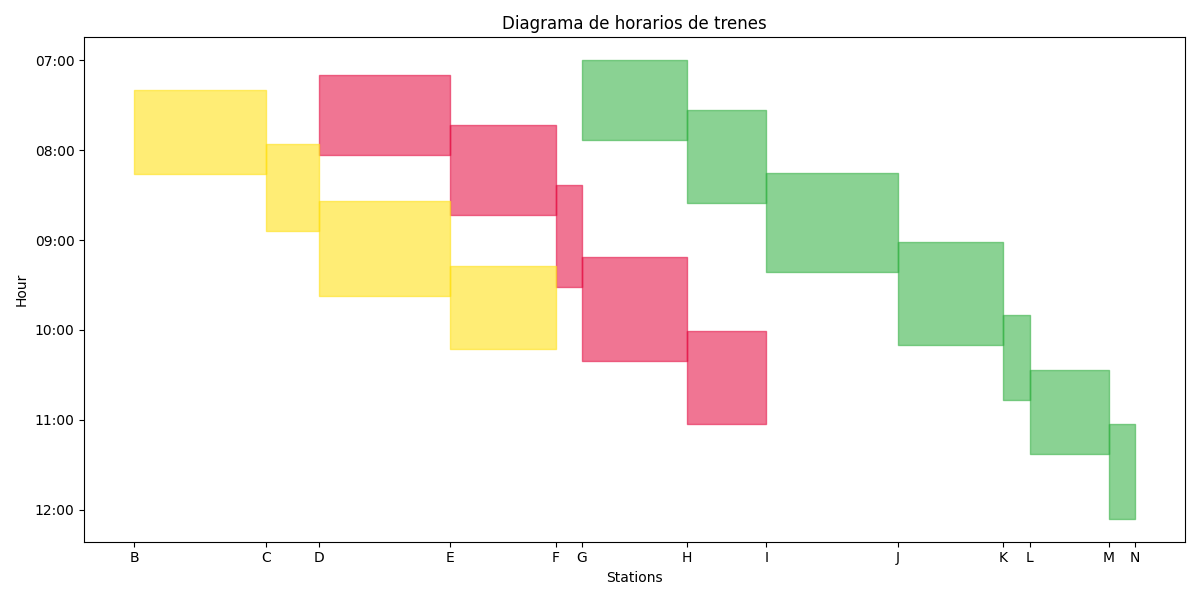
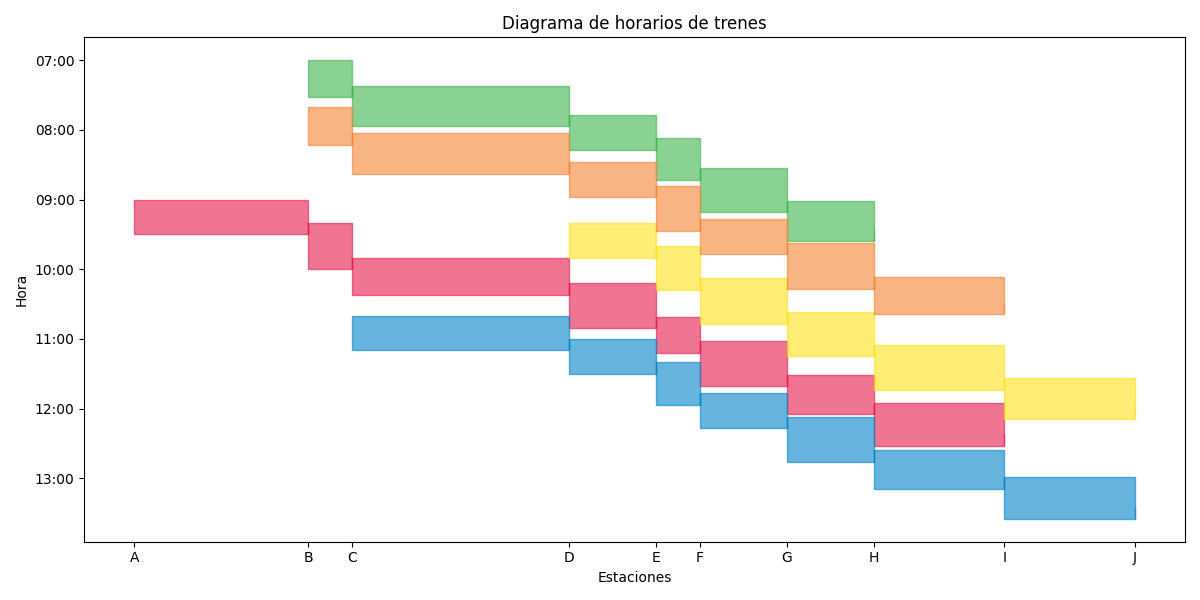
0.5a
Se añadió un formulario de carga de archivos a la página de simulación y se implementó la lógica del backend para gestionar la carga de archivos YAML, analizarlos e importar datos de líneas ferroviarias a la base de datos. Se mejoró la generación de diagramas para visualizar los datos importados y la documentación y estructura del código en generateDiagram.py y readYamlFiles.py. También se corrigió la gestión de estaciones de línea en simLibrary.py para garantizar el uso correcto de las listas de estaciones.

diff --git a/railSim/railSimulator/templates/railSimulator/simulation.html b/railSim/railSimulator/templates/railSimulator/simulation.html
@@ -62,6 +62,15 @@
                 </div>
             </details>
     </div>
+
+    <div>
+        <h2>Subir archivo</h2>
+        <form method="post" enctype="multipart/form-data">
+            {% csrf_token %}
+            <input type="file" name="uploaded_file" required>
+            <button type="submit" name="upload_button">Submit</button>
+        </form>
+    </div>
     
     <div style="display: flex; align-items: flex-start; gap: 20px;">
 

diff --git a/src/generateDiagram.py b/src/generateDiagram.py
@@ -1,16 +1,34 @@
 from src import dbLibrary as dbl
 import matplotlib
 
+# Usar backend 'Agg' para generar imágenes sin entorno gráfico
 matplotlib.use('Agg')
 
 import matplotlib.pyplot as plt
 import matplotlib.dates as mdates
-import matplotlib.colors as mcolors
 from datetime import datetime
 import random as ran
 import os
 
+
 def generateRandomPositions(stations, minDistance=1, maxDistance=5):
+    """
+    Asigna posiciones espaciales aleatorias (pero progresivas) a las estaciones para visualización en el gráfico.
+
+    Parameters
+    ----------
+    stations : list
+        Lista de estaciones (códigos o letras).
+    minDistance : int, optional
+        Distancia mínima entre estaciones consecutivas (default = 1).
+    maxDistance : int, optional
+        Distancia máxima entre estaciones consecutivas (default = 5).
+
+    Returns
+    -------
+    dict
+        Diccionario con la estación como clave y su posición en el eje X como valor.
+    """
     distance = {}
     position = 0
     for station in stations:
@@ -21,103 +39,102 @@ def generateRandomPositions(stations, minDistance=1, maxDistance=5):
             
 
 def generateDiagram(outputPath="./railSim/railSimulator/static/img/diagrama.png"):
-    #=== CONFIGURATION ===
+    """
+    Genera un diagrama visual de horarios ferroviarios a partir de los datos almacenados en la base de datos.
+
+    La función lee las líneas de tren desde la base de datos, simula las estaciones si no están guardadas todas,
+    y genera un gráfico de tipo diagrama de tiempos donde el eje X representa estaciones y el eje Y las horas.
+
+    Parameters
+    ----------
+    outputPath : str, optional
+        Ruta donde se guardará el gráfico generado (default = "./railSim/railSimulator/static/img/diagrama.png").
+
+    Returns
+    -------
+    None
+        La imagen se guarda como archivo y no se retorna nada.
+    """
     segments = []
     collection = dbl.selectCollection("trainLines", "TFG")
     lines = dbl.readCollection(collection)
     
+    # Colores para diferenciar líneas
     colors = [
-    "#E6194B",  # Rojo fuerte
-    "#3CB44B",  # Verde brillante
-    "#FFE119",  # Amarillo
-    "#0082C8",  # Azul eléctrico
-    "#F58231",  # Naranja
-    "#911EB4",  # Púrpura
-    "#46F0F0",  # Cian claro
-    "#F032E6",  # Fucsia
-    "#D2F53C",  # Lima
-    "#FABEBE",  # Rosa claro
-    "#008080",  # Verde petróleo
-    "#E6BEFF",  # Lavanda
-    "#AA6E28",  # Marrón
-    "#800000",  # Rojo oscuro
-    "#FFD8B1",  # Melocotón claro
-    "#000075",  # Azul marino
-    "#808000",  # Oliva
-    "#A9A9FF",  # Azul pastel
-    "#B10DC9",  # Violeta
-    "#FF7F00"   # Naranja oscuro
+    "#E6194B", "#3CB44B", "#FFE119", "#0082C8", "#F58231", "#911EB4",
+    "#46F0F0", "#F032E6", "#D2F53C", "#FABEBE", "#008080", "#E6BEFF",
+    "#AA6E28", "#800000", "#FFD8B1", "#000075", "#808000", "#A9A9FF",
+    "#B10DC9", "#FF7F00", "#1F77B4", "#2CA02C", "#D62728", "#9467BD", 
+    "#7F7F7F", "#BCBD22", "#17BECF", "#FF69B4", "#40E0D0", "#B22222",
+    "#228B22", "#00CED1", "#FF1493", "#C71585", "#A0522D", "#6A5ACD",
+    "#20B2AA", "#FFD700", "#8C564B", "#E377C2",
 ]
-    rangeStations = 0
-    stationOrg = float('inf')
-    stationEnd = float('-inf')
+
+    # Eliminar imagen previa si existe
+    if os.path.exists(outputPath):
+        os.remove(outputPath)
+
+    all_stations = set()
     indice = 0
-    
-    if os.path.exists("./railSim/railSimulator/static/img/diagrama.png"):
-        os.remove("./railSim/railSimulator/static/img/diagrama.png")
 
-    #=== SEGMENTS TO DRAW ===#
+    # Recorrer cada línea registrada
     for line in lines:
-        color = colors[indice] 
+        color = colors[indice % len(colors)] 
+        indice += 1
 
-        stations = line["Stations"]
-
+        # Extraer márgenes horarios
         departures = line["Timetable_Margins"][0]
         arrivals = line["Timetable_Margins"][1]
+        stations = line["Stations"]
 
-        indice += 1
-    
-        for i in range(len(departures)):
-                seg = {
-                    "station_origin": chr(ord(stations[0]) + i),
-                    "station_destiny": chr(ord(stations[0]) + i + 1),
-                    "departure": departures[i],
-                    "arrival": arrivals[i],
+        all_stations.update(stations)
+
+        for i in range(len(departures) - 1):
+            # Segmento de desplazamiento
+            seg = {
+                "station_origin": stations[i],
+                "station_destiny": stations[i + 1],
+                "departure": departures[i],
+                "arrival": arrivals[i],
+                "color": color
+            }
+            segments.append(seg)
+
+            # Segmento de parada (excepto el último tramo)
+            if i < len(departures) - 1:
+                seg_stop = {
+                    "station_origin": stations[i + 1],
+                    "station_destiny": stations[i + 1],
+                    "departure": arrivals[i],
+                    "arrival": departures[i + 1],
                     "color": color
                 }
+                segments.append(seg_stop)
 
-                if i < (len(departures) - 1):
-                    seg_uni = {
-                        "station_origin": chr(ord(stations[0]) + i + 1),
-                        "station_destiny": chr(ord(stations[0]) + i + 1),
-                        "departure": arrivals[i],
-                        "arrival": departures[i+1],
-                        "color": color  
-                    }
-
-                    segments.append(seg_uni)
-
-                segments.append(seg)
-            
-
-                stationOrg = min(stationOrg, ord(stations[0]))
-                stationEnd = max(stationEnd, ord(stations[-1]))
-
-                rangeStations = stationEnd - stationOrg
-
-        stationsDiagram = [chr(stationOrg), chr(stationOrg + rangeStations)]
-        stationlist = [chr(i) for i in range(ord(stationsDiagram[0]), ord(stationsDiagram[1]) + 1)]
-
+    # Asignar posiciones visuales a estaciones simuladas
+    stationlist = sorted(all_stations)
     est_to_y = generateRandomPositions(stationlist, minDistance=1, maxDistance=5)
-    fig, ax = plt.subplots(figsize=(12,6))
+
+    # Crear gráfico
+    fig, ax = plt.subplots(figsize=(12, 6))
     ax.set_xticks(list(est_to_y.values()))
     ax.set_xticklabels(list(est_to_y.keys()))
     ax.set_title("Diagrama de horarios de trenes")
     ax.yaxis.set_major_formatter(mdates.DateFormatter('%H:%M'))
     ax.yaxis.set_major_locator(mdates.HourLocator(interval=1))
-    ax.set_ylabel("Hour")
-    ax.set_xlabel("Stations")
+    ax.set_ylabel("Hora")
+    ax.set_xlabel("Estaciones")
     ax.invert_yaxis()
 
+    # Pintar los segmentos
     for seg in segments:
         y0 = est_to_y[seg["station_origin"]]
         y1 = est_to_y[seg["station_destiny"]]
         x0 = seg["departure"]
         x1 = seg["arrival"]
-        ax.fill_between([y0,y1], x0, x1, color=seg["color"], alpha=0.6)
+        ax.fill_between([y0, y1], x0, x1, color=seg["color"], alpha=0.6)
 
     plt.tight_layout()
     plt.savefig(outputPath)
     plt.close()
     print(f"Diagrama guardado como {outputPath}")
-

diff --git a/src/readYamlFiles.py b/src/readYamlFiles.py
@@ -1,61 +1,64 @@
 import yaml as yml
 import src.dbLibrary as dbl
+import src.generateDiagram as gd
+from robin.supply.entities import Supply
+from datetime import timedelta, datetime
 
 
 #=== GLOBAL VARIABLES ===#
 
-fileName = "./src/supply_data.yaml"
-
 #=== FUNCTIONS ===#
-def openYaml(name:str) -> dict:
-    """
-    Function to read .yaml files to study their capacity.
+def getSimplifiedStation(station:str, stations:list, dictStationsWork:dict):
+    for simplifiedStation in dictStationsWork:
+            if dictStationsWork[simplifiedStation][0] == station:
+                stations.append(simplifiedStation)
 
-    Parameters:
-    name(str): Name/route of the yaml file to read.
 
-    Returns:
-    dict: Data of the yaml file.
-    """
 
-    with open(name, 'r') as file:
-        data = yml.safe_load(file)
 
-    return data
-
-def importData(file:dict) -> None:
+def importData(name:str) -> None:
     """
     Function to transfer data to the database used.
 
     Parameters:
-    file(dict): Dictionary with the data contained in the yaml file.
+    file
 
     Returns:
     None
     """
 
+    supply = Supply.from_yaml(name)
+    base = datetime(1900, 1, 1)
+
     collection = dbl.selectCollection("trainLines", "TFG")
     dbl.deleteCollection(collection)
-    stations = {}
 
+    stationsCorridor = supply.corridors
+    dictStations = stationsCorridor[0].stations
+    dictStationsWork = {}
+    departures = []
+    arrivals = []
+    stations = []
+    prevStation = None
 
-    for i, station in enumerate(file["stations"]):
-        stations[chr(ord("A") + i)] = [station["short_name"],station["id"]]
+    for i, clave in enumerate(dictStations):
+        dictStationsWork[chr(ord('A') + i)] = [clave]
 
-    
-    simplifiedStation = list(stations.keys())
+    for service in supply.services:
+        for i, station in enumerate(service.schedule):
+            if i == 0:
+                origin = station
+                prevStation =  station
+                getSimplifiedStation(station, stations, dictStationsWork)
 
-    for line in file["line"]:
-        lineStations = []
-        route = [stop["station"] for stop in line["stops"]]
+            else:
+                departures.append(base + service.schedule[prevStation][0])
+                arrivals.append(base + service.schedule[station][1])
+                prevStation = station
+                getSimplifiedStation(station, stations, dictStationsWork)
+        
+        dbl.dbInputsTL(service.id, stations, [], [departures, arrivals], "TFG", [])
+        departures = []
+        arrivals = []
 
-        for i, stopStations in enumerate(stations):
-            if stations[stopStations][1] == route[0]:
-                lineStations.append(simplifiedStation[i])
-
-            elif (stations[stopStations][1] == route[-1]) and len(lineStations) != 0:
-                lineStations.append(simplifiedStation[i])
-
-        dbl.dbInputsTL(line["id"],lineStations,[],[],"TFG",[])
-
-importData(openYaml(fileName))
+    gd.generateDiagram()

diff --git a/railSim/railSimulator/views.py b/railSim/railSimulator/views.py
@@ -1,7 +1,9 @@
 from django.shortcuts import render, redirect
 from django.http import JsonResponse
+from django.core.files.storage import FileSystemStorage
 from src import simLibrary
 from src import dbLibrary as dbl
+from src import readYamlFiles as ryf
 import time
 from datetime import datetime
 from src import capacity as cp
@@ -26,6 +28,19 @@ def generate_capacity(request):
 
 def simulator(request):
     if request.method == "POST":
+        if request.FILES.get('uploaded_file'):
+            uploaded_file = request.FILES['uploaded_file']
+            fs = FileSystemStorage()
+            file_name = fs.save(uploaded_file.name, uploaded_file)
+            file_path = fs.path(file_name)
+
+            ryf.importData(file_path)
+
+            # Esperamos un momento para asegurar inserción y generación de imagen (si aplica)
+            time.sleep(2)
+
+            return redirect('simulator')
+
         trip_form = request.POST.get("trip")
         startHour = request.POST.get("startHour")
         endHour = request.POST.get("endHour")

diff --git a/src/simLibrary.py b/src/simLibrary.py
@@ -79,7 +79,8 @@ def generateLines(route, min_stations_per_line):
     print(f"[DEBUG] Líneas generadas: {generadas}", flush=True)
 
     for idx, line in enumerate(generadas):
-        dbl.dbInputsTL(idx + 1, line, [], [], 'TFG', [])
+        listLines = [chr(station) for station in range(ord(line[0]), ord(line[1]) + 1)]
+        dbl.dbInputsTL(idx + 1, listLines, [], [], 'TFG', [])
     
 def setTimeLimit(formatReference):
     if checkFormat(formatReference, parameters["upperTimeLimit"]) == False:
@@ -133,7 +134,7 @@ def generateTimetable(limits: tuple, trip: tuple):
         current_timeTable = timeTable[lines.index(current_line)]
         current_stations = stations[lines.index(current_line)]
 
-        lineStations = [chr(i) for i in range(ord(current_stations[0]), ord(current_stations[1]))]
+        lineStations = current_stations
         departureTimes = []
         arrivalTimes = []
 
